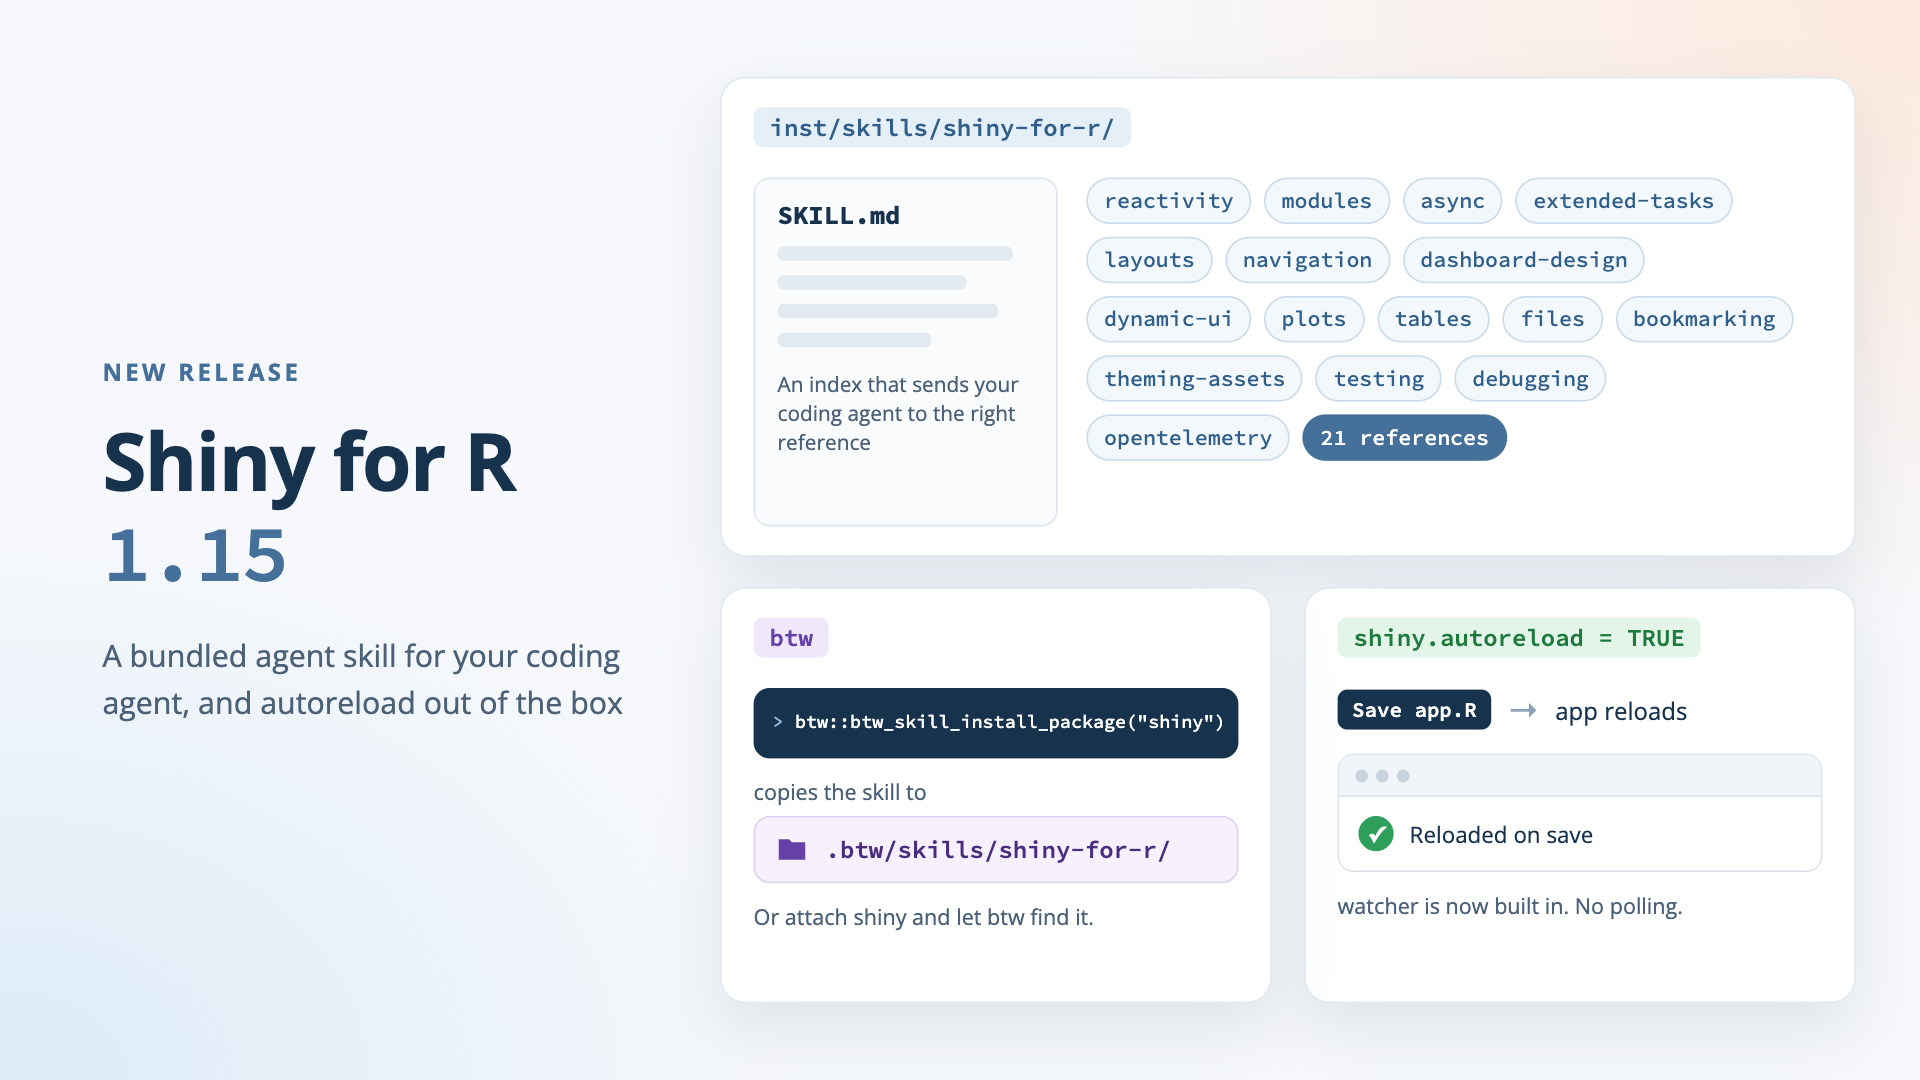
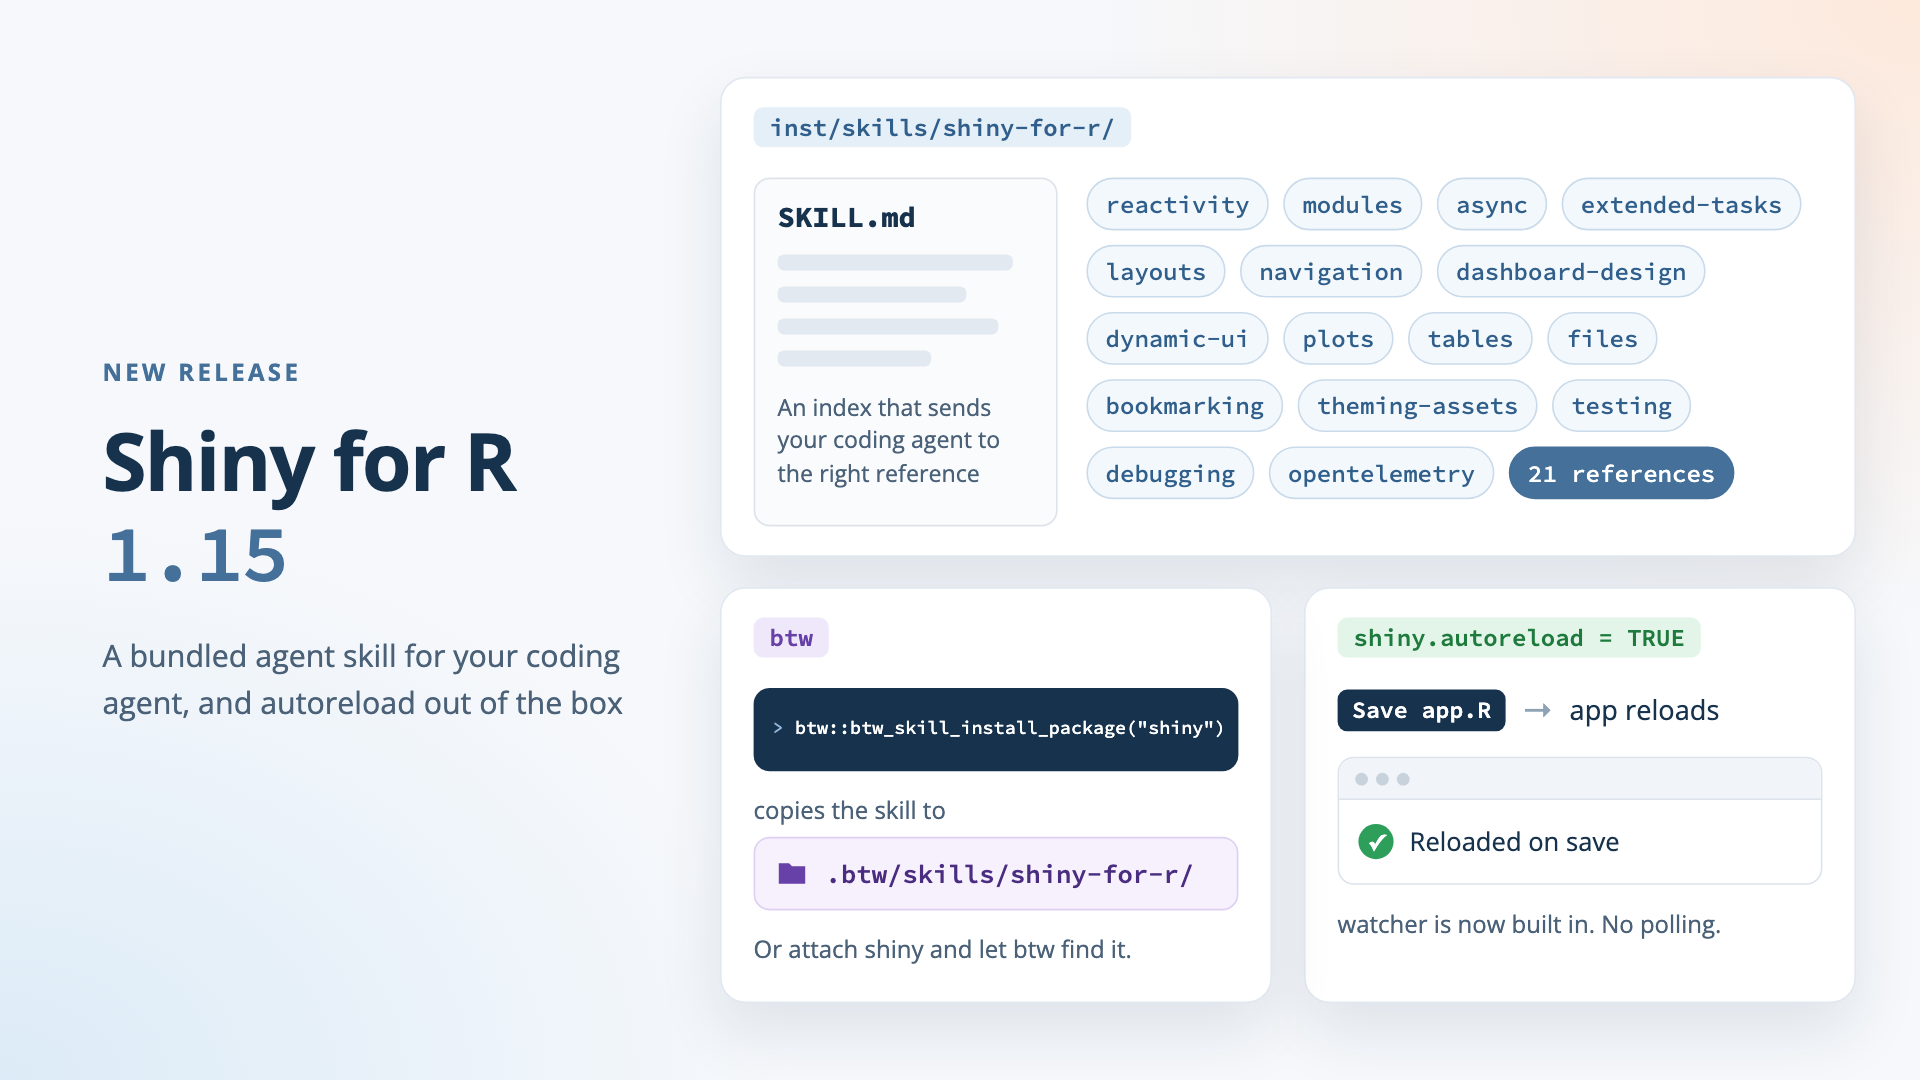
docs(blog): enlarge card text in Shiny for R 1.15 feature image

diff --git a/content/blog/shiny-r-1-15/_feature-src/feature.html b/content/blog/shiny-r-1-15/_feature-src/feature.html
@@ -58,38 +58,38 @@
   .skill { display: flex; gap: 18px; height: 100%; }
   .file { width: 190px; flex: none; border: 1px solid #DCE3EB; border-radius: 10px;
           background: #F9FBFD; padding: 12px 14px; }
-  .file .name { font-family: "Source Code Pro", monospace; font-weight: 700; font-size: 16px; margin-bottom: 10px; }
-  .ph { height: 9px; border-radius: 4px; background: #E3E9F0; margin-bottom: 9px; }
-  .file .note { margin-top: 14px; font-size: 13px; line-height: 1.4; color: #4A6178; }
-  .refs { flex: 1; display: flex; flex-wrap: wrap; gap: 8px; align-content: flex-start; }
-  .ref { font-family: "Source Code Pro", monospace; font-size: 13.5px; font-weight: 500;
-         padding: 5px 10px; border-radius: 999px; border: 1px solid #C9DAEA;
+  .file .name { font-family: "Source Code Pro", monospace; font-weight: 700; font-size: 18px; margin-bottom: 12px; }
+  .ph { height: 10px; border-radius: 4px; background: #E3E9F0; margin-bottom: 10px; }
+  .file .note { margin-top: 16px; font-size: 14.5px; line-height: 1.4; color: #4A6178; }
+  .refs { flex: 1; display: flex; flex-wrap: wrap; gap: 9px; align-content: flex-start; }
+  .ref { font-family: "Source Code Pro", monospace; font-size: 15px; font-weight: 500;
+         padding: 6px 11px; border-radius: 999px; border: 1px solid #C9DAEA;
          background: #F3F8FC; color: #2F5F8A; }
   .ref.more { background: #447099; color: #fff; border-color: #447099; }
 
   /* tile 2: autoreload */
-  .save { display: flex; align-items: center; gap: 10px; font-size: 15px; margin-bottom: 14px; }
-  .key { font-family: "Source Code Pro", monospace; font-size: 13px; font-weight: 600;
+  .save { display: flex; align-items: center; gap: 10px; font-size: 17px; margin-bottom: 16px; }
+  .key { font-family: "Source Code Pro", monospace; font-size: 14.5px; font-weight: 600;
          padding: 4px 9px; border-radius: 6px; background: #17324D; color: #fff; }
   .arrow { color: #8EA2B5; font-size: 20px; }
   .win { border: 1px solid #DCE3EB; border-radius: 10px; overflow: hidden; }
   .win-head { height: 26px; background: #F1F4F8; border-bottom: 1px solid #DCE3EB;
               display: flex; align-items: center; gap: 5px; padding: 0 10px; }
   .dot { width: 8px; height: 8px; border-radius: 50%; background: #C8D2DD; }
-  .win-body { padding: 12px; font-size: 14px; display: flex; align-items: center; gap: 10px; }
+  .win-body { padding: 15px 12px; font-size: 16px; display: flex; align-items: center; gap: 10px; }
   .ok { width: 22px; height: 22px; border-radius: 50%; background: #2E9E5B; color: #fff;
         font-size: 14px; font-weight: 700; display: grid; place-items: center; flex: none; }
-  .small { margin-top: 12px; font-size: 13.5px; color: #4A6178; }
+  .small { margin-top: 14px; font-size: 15px; color: #4A6178; }
 
   /* tile 3: install the skill with btw */
   .term { font-family: "Source Code Pro", monospace; font-size: 11.5px; font-weight: 500;
-          background: #17324D; color: #fff; border-radius: 10px; padding: 12px 12px;
+          background: #17324D; color: #fff; border-radius: 10px; padding: 16px 12px;
           line-height: 1.7; white-space: nowrap; }
   .term .prompt { color: #8FB4D9; }
   .term .out { color: #9EE0B5; }
-  .copies { margin-top: 12px; font-size: 13.5px; color: #4A6178; }
-  .folder { display: flex; align-items: center; gap: 10px; margin-top: 6px; font-size: 15px;
-            font-weight: 600; padding: 9px 12px; border-radius: 10px;
+  .copies { margin-top: 14px; font-size: 15px; color: #4A6178; }
+  .folder { display: flex; align-items: center; gap: 10px; margin-top: 7px; font-size: 16px;
+            font-weight: 600; padding: 11px 12px; border-radius: 10px;
             background: #F6F1FC; border: 1px solid #DDD0F2; color: #4A2D80; }
 </style>
 </head>
